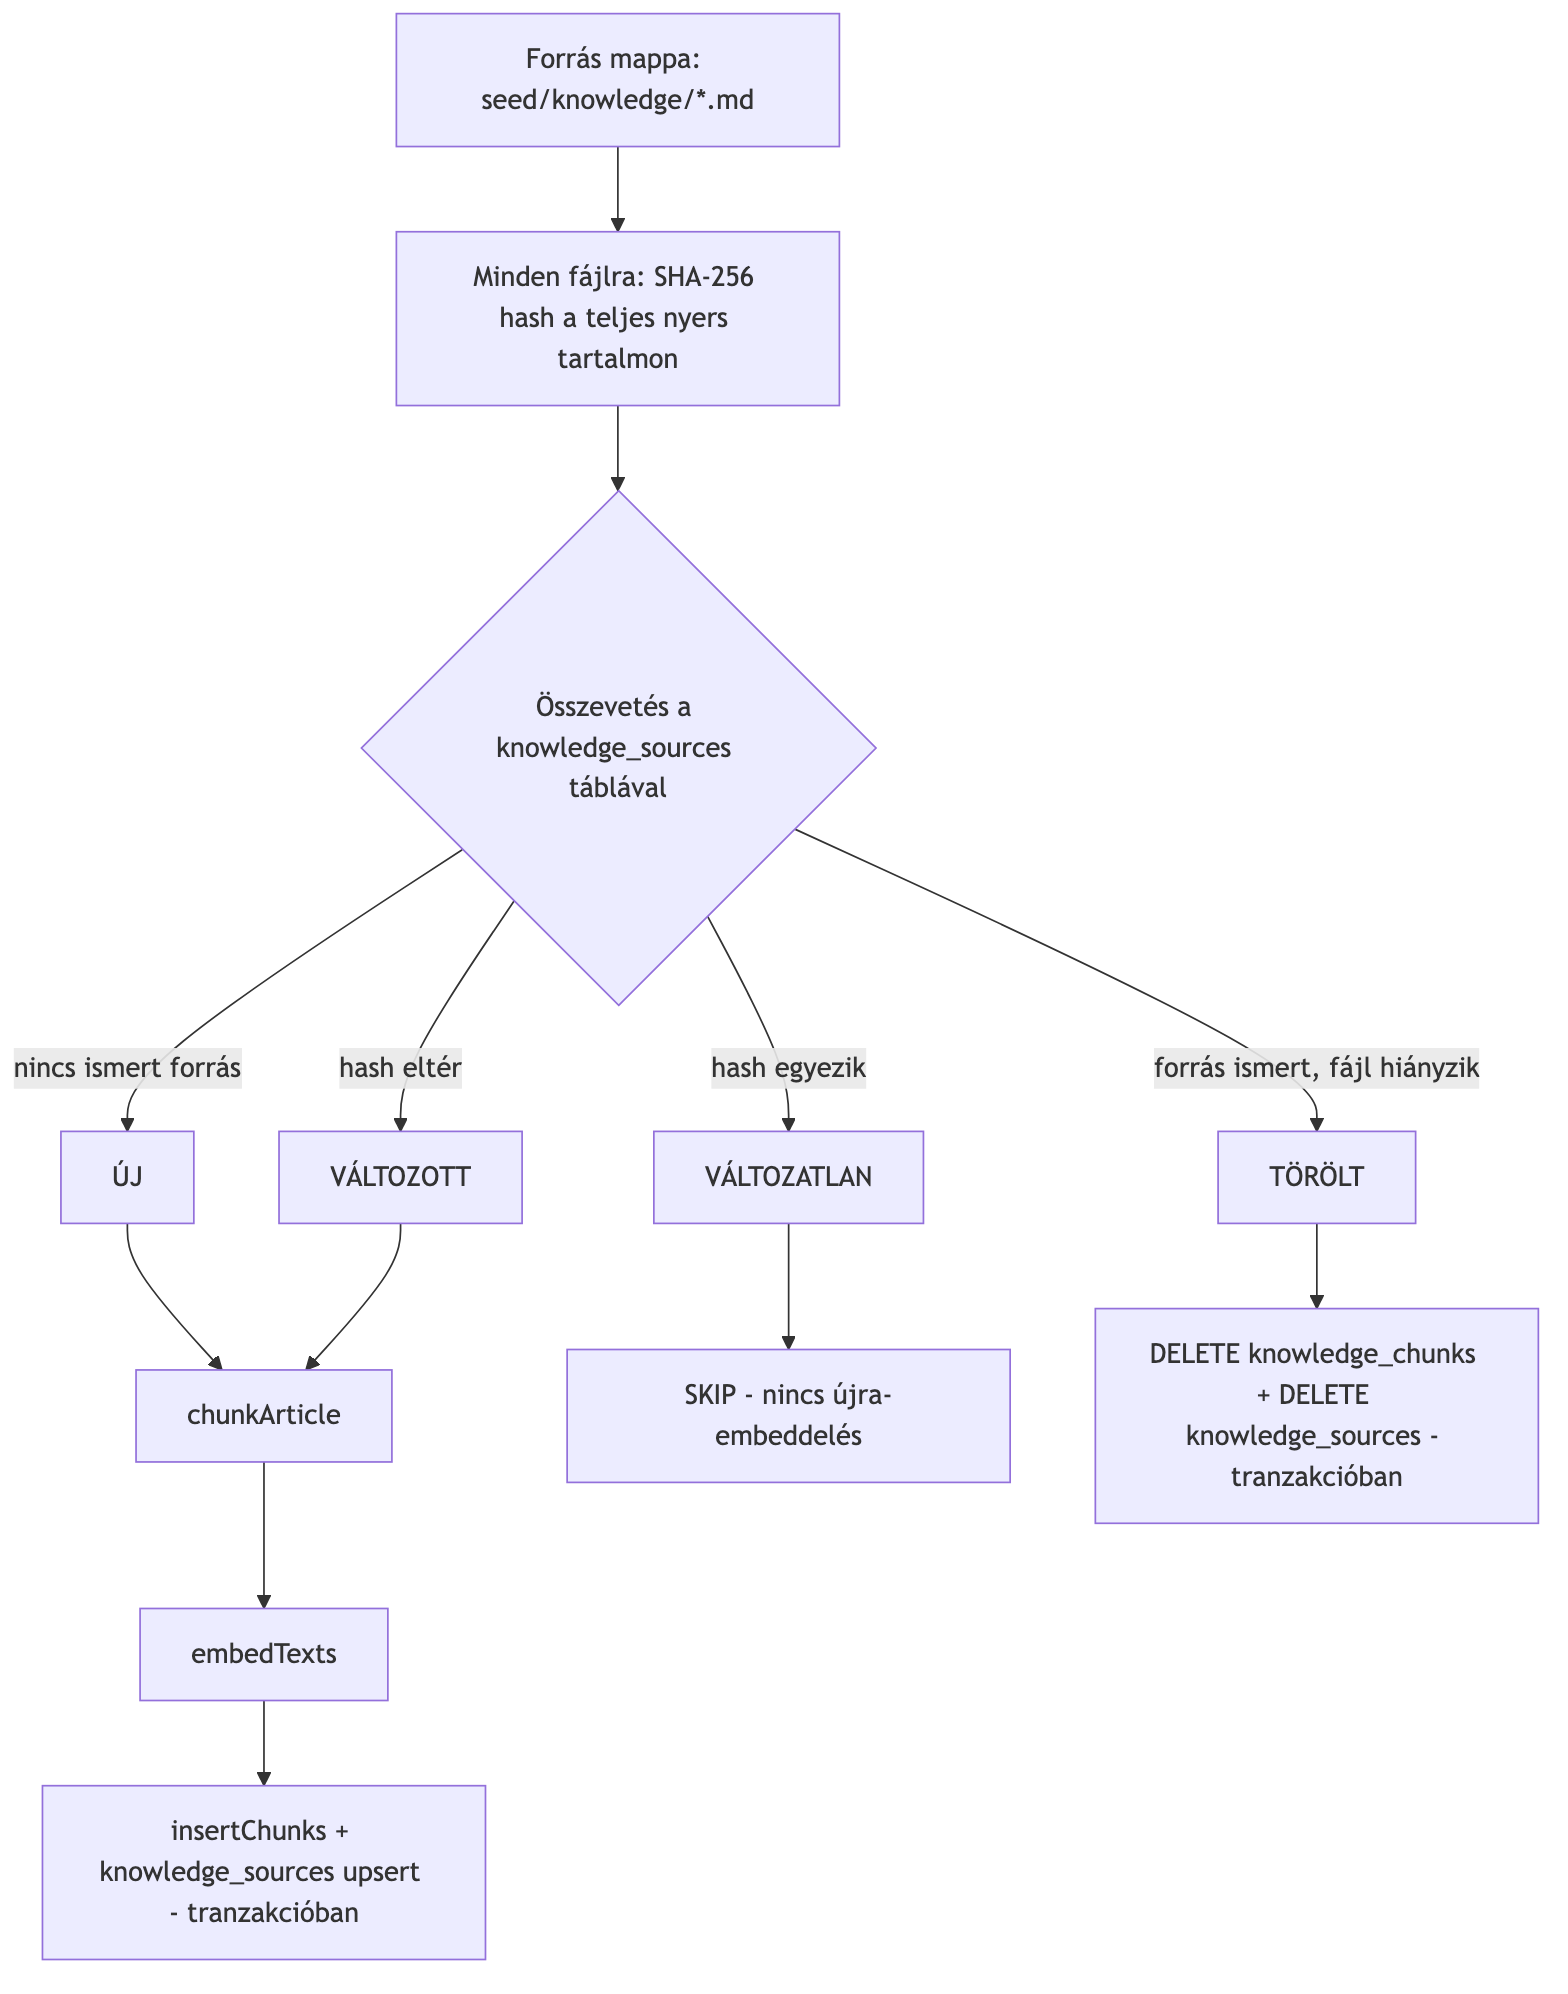
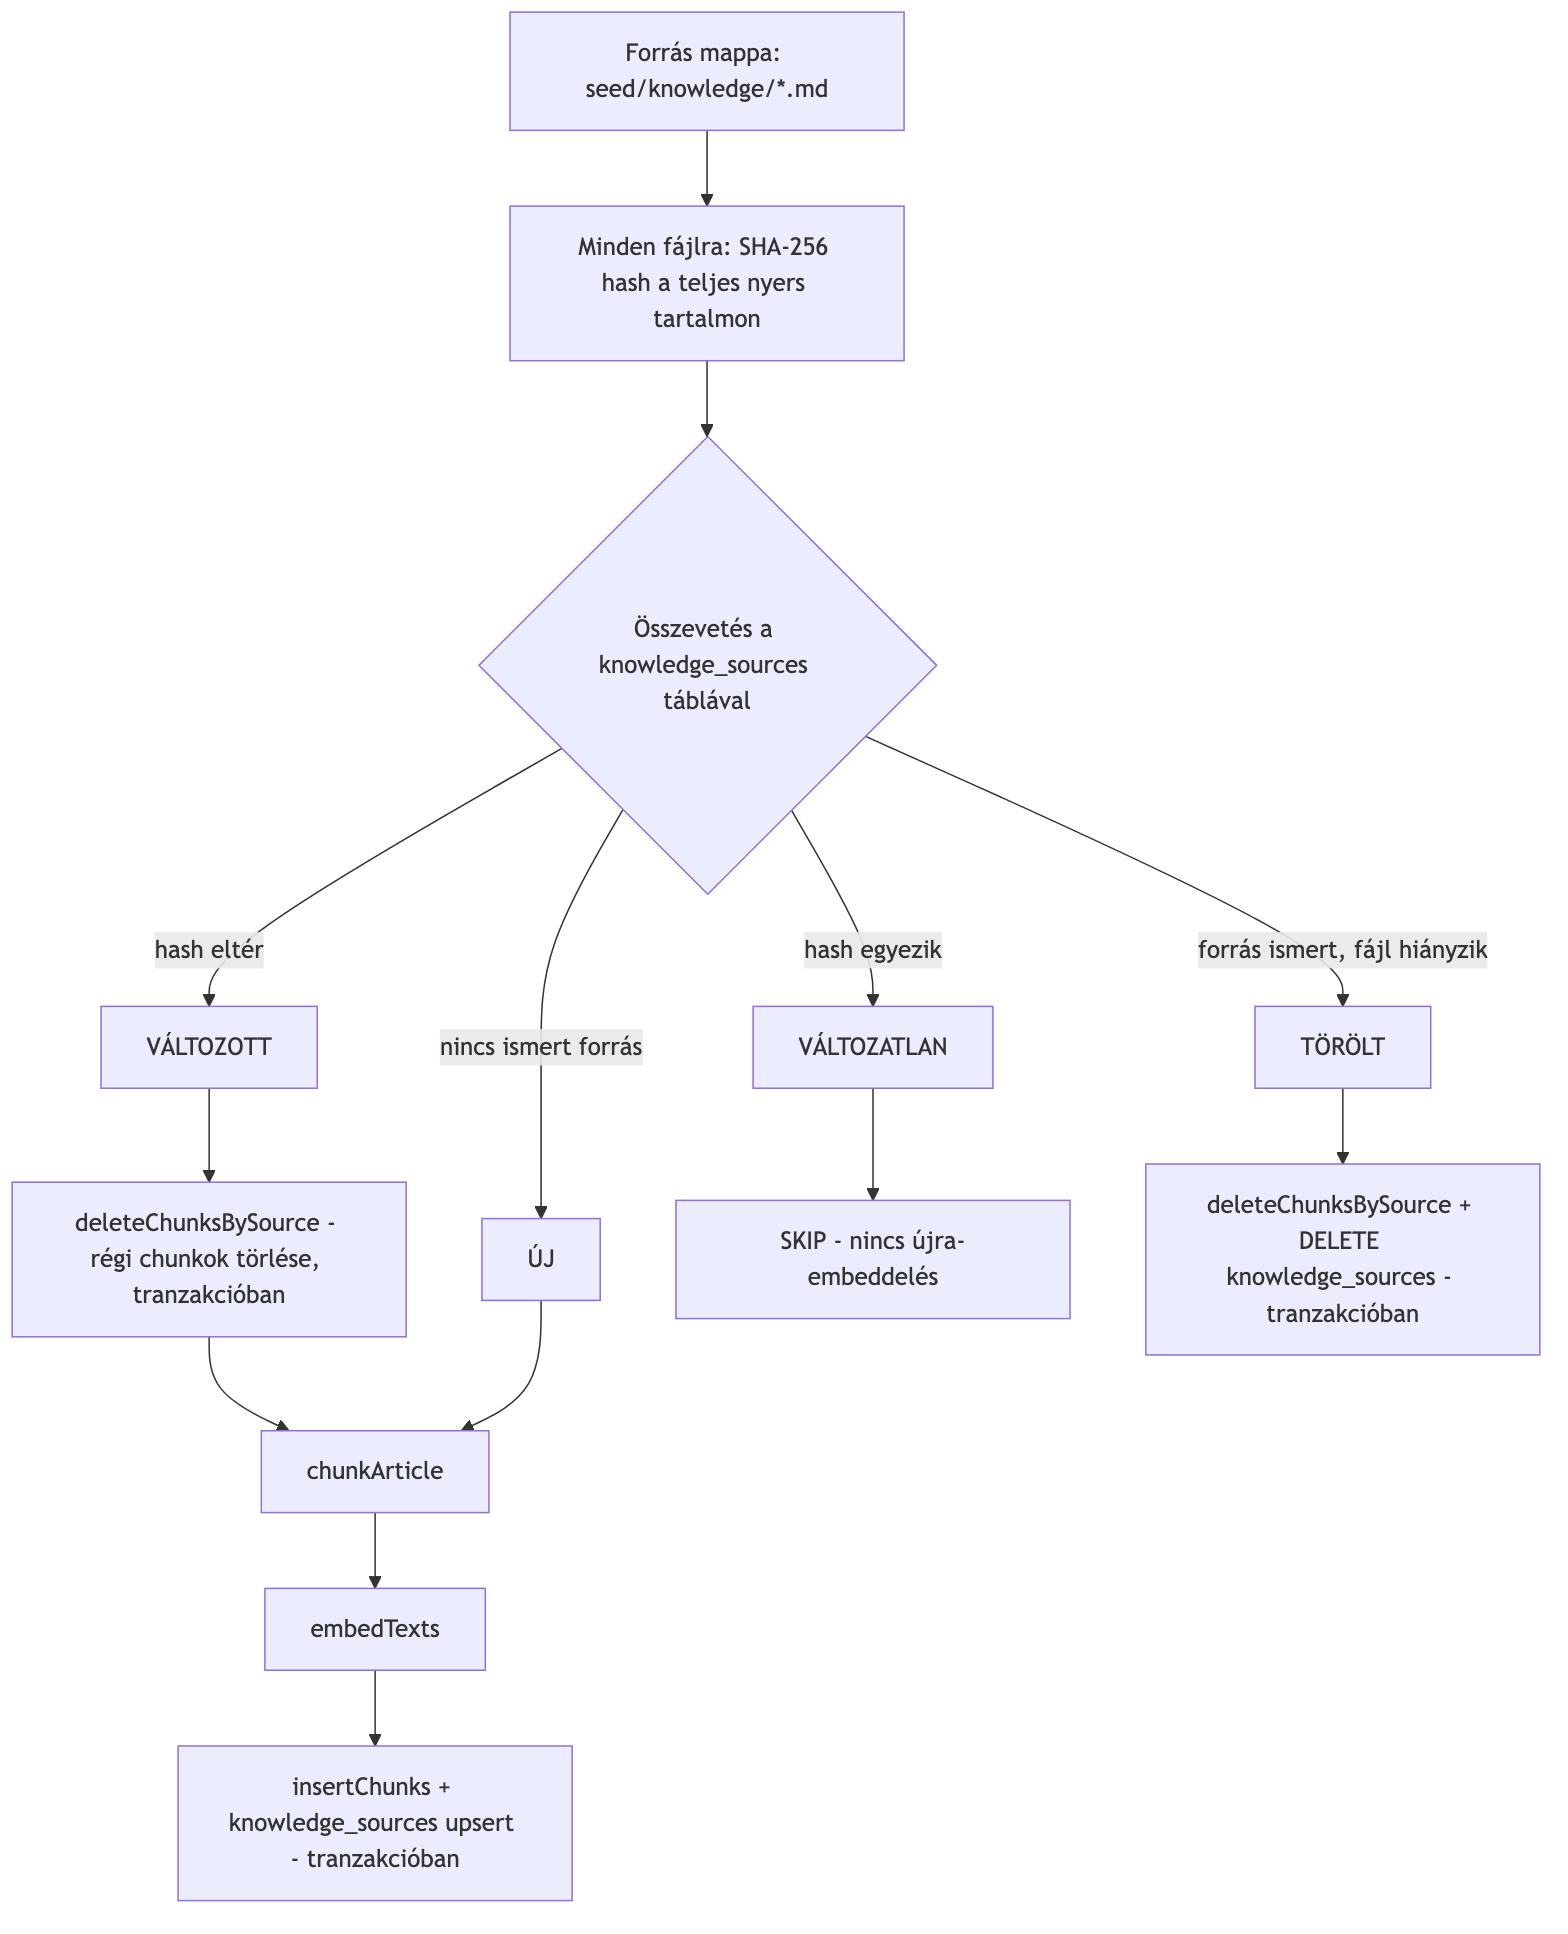
docs: fix rerank-before-delete inconsistency between diagram and sync algorithm

diff --git a/docs/rag-architektura.md b/docs/rag-architektura.md
@@ -51,6 +51,13 @@ hibalehetőséget.
 szüksége. Emiatt, ellentétben a `knowledge_chunks`-szal, ennek a táblának **nem** kellene RO
 `SELECT`-jogot adni a `db-role-setup` skillben, ha ez a terv implementálódik.
 
+**Hiányzó függvény, ha implementálódik**: a `knowledge-store.ts` jelenleg csak `insertChunks`,
+`searchChunks` és `clearKnowledge` (a TELJES tábla ürítése) függvényeket ismer — egyik sem alkalmas
+egyetlen forrás chunkjainak szelektív törlésére. A sync-algoritmushoz egy új
+`deleteChunksBySource(source: string): Promise<void>` függvény kellene (`DELETE FROM
+knowledge_chunks WHERE source = $1`, a RW poolon), amit a VÁLTOZOTT és TÖRÖLT ágak egyaránt
+használnának.
+
 ### Miért a teljes fájlon fut a hash, nem csak a body-n
 
 A `chunk.ts` a cikk `title`-jét belesüti minden chunk `content`-jébe kontextus-prefixként (F4, 3. döntés) — tehát ha **csak** a frontmatter `title`-je változik (a body nem), az embeddelt szöveg
@@ -83,16 +90,17 @@ tároltForrások = SELECT source, contentHash FROM knowledge_sources
 ÚJ         — forrásfájlokban van, tároltForrások-ban nincs
              → chunkArticle + embedTexts + insertChunks + INSERT INTO knowledge_sources
 VÁLTOZOTT  — mindkettőben van, de a hash eltér
-             → [TRANZAKCIÓ: DELETE FROM knowledge_chunks WHERE source=? →
+             → [TRANZAKCIÓ: deleteChunksBySource(source) →
                 chunkArticle + embedTexts + insertChunks (újra) →
                 UPDATE knowledge_sources SET contentHash=?, chunkCount=?, embeddingModel=?,
                 chunkingVersion=?, lastIndexedAt=now() WHERE source=?]
 VÁLTOZATLAN — mindkettőben van, hash egyezik
              → SKIP, nincs újra-embeddelés (ez a HF3 explicit elvárása)
 TÖRÖLT     — tároltForrások-ban van, forrásfájlokban nincs
-             → [TRANZAKCIÓ: DELETE FROM knowledge_chunks WHERE source=? →
+             → [TRANZAKCIÓ: deleteChunksBySource(source) →
                 DELETE FROM knowledge_sources WHERE source=?]
-             (ON DELETE CASCADE esetén az első DELETE lépés automatikus lenne)
+             (ON DELETE CASCADE esetén a deleteChunksBySource hívás elhagyható lenne, a
+             DELETE FROM knowledge_sources automatikusan kaszkádolna a chunkokra)
 ```
 
 Minden delete+reinsert+hash-frissítés lépéssorozat **egy tranzakcióban** fut — ha a sync script
@@ -121,14 +129,16 @@ flowchart TD
     C -->|"hash eltér"| F["VÁLTOZOTT"]
     C -->|"forrás ismert, fájl hiányzik"| G["TÖRÖLT"]
 
-    D --> H["chunkArticle"]
-    F --> H
+    F --> F2["deleteChunksBySource - régi chunkok törlése, tranzakcióban"]
+    F2 --> H["chunkArticle"]
+    D --> H
+
     H --> I["embedTexts"]
     I --> J["insertChunks + knowledge_sources upsert - tranzakcióban"]
 
     E --> K["SKIP - nincs újra-embeddelés"]
 
-    G --> L["DELETE knowledge_chunks + DELETE knowledge_sources - tranzakcióban"]
+    G --> L["deleteChunksBySource + DELETE knowledge_sources - tranzakcióban"]
 ```
 
 Renderelt, statikus export (a HF3 szó szerinti "screenshot/export a repóba" mellékletéhez):
